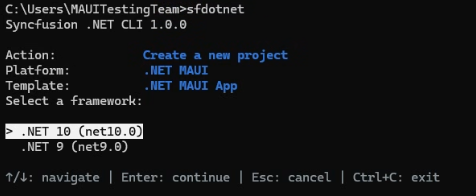
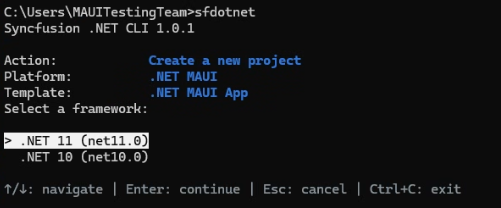
Added CLI license documentation details

diff --git a/maui-toc.html b/maui-toc.html
@@ -112,6 +112,9 @@
 					<li>
 						<a href="/maui/dotnet-cli/manage-packages">Manage Packages</a>
 					</li>
+    				<li>
+						<a href="/maui/dotnet-cli/licensing">Licensing</a>
+					</li>
 					<li>
 						<a href="/maui/dotnet-cli/configure-mcp">MCP Configuration</a>
 					</li>

diff --git a/MAUI/dotnet-cli/licensing.md b/MAUI/dotnet-cli/licensing.md
@@ -1,0 +1,145 @@
+---
+layout: post
+title: License Activation using Syncfusion .NET CLI | Syncfusion®
+description: Learn here about how to activate and view Syncfusion® licenses for .NET MAUI projects using the Syncfusion® .NET CLI (sfdotnet) license commands.
+platform: MAUI
+control: Syncfusion<sup>®</sup> .NET CLI
+documentation: UG
+---
+
+# Activate Syncfusion<sup>®</sup> licenses
+
+The CLI detects the Syncfusion<sup>®</sup> controls used in a project, downloads the matching license keys from your Syncfusion<sup>®</sup> account, and registers the keys in the project's startup code. For example, when a sample is created with the Cartesian Chart control, the CLI registers the license for `Syncfusion.Maui.Charts` in `MauiProgram.cs` so the build runs without a license warning.
+
+N> Open the Command Prompt or Terminal in the target sample's project directory before running the license activation command. The license operation is project-specific, and the command path must point to the intended sample.
+
+## Sign in requirements
+
+License activation requires a Syncfusion<sup>®</sup> account. The CLI uses the account to check your entitlements and download the license keys for the Syncfusion<sup>®</sup> packages detected in the project. You can sign in during activation, or ahead of time with `sfdotnet login`.
+
+## Sign in and sign out
+
+To sign in to your Syncfusion<sup>®</sup> account, run:
+
+{% tabs %}
+{% highlight bash tabtitle="Bash" %}
+sfdotnet login
+{% endhighlight %}
+{% endtabs %}
+
+The CLI opens your default browser on the Syncfusion<sup>®</sup> sign-in page. Complete sign in, and the CLI stores a local session for future license operations. The session is reused by `sfdotnet license activate`, so you sign in only once per machine until you sign out.
+
+To sign out and clear the local sign-in session, run:
+
+{% tabs %}
+{% highlight bash tabtitle="Bash" %}
+sfdotnet logout
+{% endhighlight %}
+{% endtabs %}
+
+After signing out, the next license operation prompts you to sign in again. Signing out does not affect the license keys already registered in your projects.
+
+## Activate a license through the interactive menu
+
+1. Open the Command Prompt or Terminal in the target sample's project directory.
+
+2. Run `sfdotnet` to open the main menu.
+
+3. Under **License management**, select **Activate license**.
+
+    ![Activate license option in the Syncfusion .NET CLI](images/cli-activate-license.png)
+
+4. If you are not signed in, the CLI opens your default browser to the Syncfusion<sup>®</sup> sign-in page. Complete sign in with your Syncfusion<sup>®</sup> account.
+
+    ![Syncfusion sign-in page in the browser](images/cli-license-sign-in.png)
+
+5. After sign in, the CLI checks your entitlements, downloads the matching keys for the Syncfusion<sup>®</sup> controls in the sample, and registers the keys in `MauiProgram.cs`.
+
+    ![License registered successfully in the Syncfusion .NET CLI](images/cli-license-registered.png)
+
+6. Rebuild the application so the newly registered license is applied.
+
+## Activate a license using a direct command
+
+Run the activation command from the sample's project directory:
+
+{% tabs %}
+{% highlight bash tabtitle="Bash" %}
+sfdotnet license activate
+{% endhighlight %}
+{% endtabs %}
+
+Pass `--path` to point the CLI at a specific project directory or `.csproj` file:
+
+{% tabs %}
+{% highlight bash tabtitle="Bash" %}
+sfdotnet license activate --path ./MyApp
+sfdotnet license activate --path ./MyApp/MyApp.csproj
+{% endhighlight %}
+{% endtabs %}
+
+Use `--yes` to accept the trial EULA prompt without asking:
+
+{% tabs %}
+{% highlight bash tabtitle="Bash" %}
+sfdotnet license activate --yes
+{% endhighlight %}
+{% endtabs %}
+
+Use `--file` to activate from an existing key file. With no value, the CLI reads `./syncfusion-license.txt` from the project directory. With an absolute path, the CLI uses the specified file instead:
+
+{% tabs %}
+{% highlight bash tabtitle="Bash" %}
+sfdotnet license activate --file
+sfdotnet license activate --file C:\Users\<username>\keys\syncfusion-license.txt
+{% endhighlight %}
+{% endtabs %}
+
+N> When a license key is supplied through `--file`, the CLI skips sign in and download and registers the keys already in the file. The file path must be absolute.
+
+## View installed licenses
+
+To see the licenses cached for the current project, run:
+
+{% tabs %}
+{% highlight bash tabtitle="Bash" %}
+sfdotnet license view
+{% endhighlight %}
+{% endtabs %}
+
+The command reads the cached metadata, lists each product, the license type, the status, and the expiry date, and warns when a Syncfusion<sup>®</sup> package in the project is not covered.
+
+![View installed licenses in the Syncfusion .NET CLI](images/cli-view-installed-license-menu.png)
+
+The cached output reports the registered email, platform, major version, and one row per product.
+
+![Installed license details in the Syncfusion .NET CLI](images/cli-view-installed-license.png)
+
+## License options
+
+| Option | Description |
+| --- | --- |
+| `-p`, `--path` | The project directory or `.csproj`/`.vbproj` to scan for Syncfusion<sup>®</sup> packages. Defaults to the current directory |
+| `-y`, `--yes` | Accept the trial EULA prompt automatically during activation |
+| `--file` | Activate from an existing key file. With no value, the CLI reads `./syncfusion-license.txt` from the project directory. With an absolute path, the CLI uses the specified file |
+| `--json` | Emit one JSON document instead of table output |
+
+## FAQs
+
+**Where does the CLI register the license for .NET MAUI?**
+
+In `MauiProgram.cs`, immediately before `MauiApp.CreateBuilder()`.
+
+**Can I use my own key file?**
+
+Yes. Run `sfdotnet license activate --file C:\Users\<username>\keys\syncfusion-license.txt` with an absolute path. The CLI reads the keys from the file and registers them in the project's startup code without contacting the license service.
+
+**What happens if I am not signed in during activation?**
+
+The CLI opens your default browser on the Syncfusion<sup>®</sup> sign-in page. After you complete sign in, activation continues. To sign in ahead of time, run `sfdotnet login`.
+
+## See also
+
+* [Create a .NET MAUI project](/maui/dotnet-cli/create-project)
+* [Manage packages in an existing project](/maui/dotnet-cli/manage-packages)
+* [Syncfusion<sup>®</sup> licensing overview](https://help.syncfusion.com/common/essential-studio/licensing/overview)

diff --git a/MAUI/dotnet-cli/overview.md b/MAUI/dotnet-cli/overview.md
@@ -9,7 +9,7 @@ documentation: UG
 
 # Overview of the Syncfusion<sup>®</sup> .NET CLI
 
-The Syncfusion<sup>®</sup> .NET CLI (`sfdotnet`) is a cross-platform command line tool that creates .NET MAUI projects, manages Syncfusion<sup>®</sup> .NET MAUI NuGet packages, and configures AI integrations from a terminal. After you install the CLI, you can run `sfdotnet` with no arguments to open an interactive menu, or run a direct command such as `sfdotnet new maui` for scripted, prompt-free creation.
+The Syncfusion<sup>®</sup> .NET CLI (`sfdotnet`) is a cross-platform command line tool that creates .NET MAUI projects, manages Syncfusion<sup>®</sup> .NET MAUI NuGet packages, registers licenses, and configures AI integrations from a terminal. After you install the CLI, you can run `sfdotnet` with no arguments to open an interactive menu, or run a direct command such as `sfdotnet new maui` for scripted, prompt-free creation.
 
 N> The Syncfusion<sup>®</sup> .NET CLI installs the `sfdotnet` command.
 
@@ -17,6 +17,7 @@ You can use the CLI to perform the following actions:
 
 * Create a blank .NET MAUI app, or an app containing generated Syncfusion<sup>®</sup> control samples. For details, refer to [Create a .NET MAUI project](/maui/dotnet-cli/create-project).
 * Add or update Syncfusion<sup>®</sup> .NET MAUI NuGet package references in an existing project. For details, refer to [Manage packages](/maui/dotnet-cli/manage-packages).
+* Activate Syncfusion<sup>®</sup> licenses for the controls used in a sample, and view installed licenses. For details, refer to [License activation](/maui/dotnet-cli/licensing).
 * Configure an official Syncfusion<sup>®</sup> Model Context Protocol (MCP) server for AI coding clients. For details, refer to [MCP configuration](/maui/dotnet-cli/configure-mcp).
 * Install official Syncfusion<sup>®</sup> component skills for AI agents. For details, refer to [AI skills installation](/maui/dotnet-cli/install-skills).
 
@@ -26,8 +27,9 @@ This documentation covers the .NET MAUI platform.
 
 The following software is required before you install and use the CLI:
 
-* [.NET SDK](https://dotnet.microsoft.com/en-us/download/dotnet/10.0) with the **.NET Multi-platform App UI development** workload. The workload also installs the .NET MAUI project templates, which the CLI uses to create projects.
+* [.NET SDK](https://dotnet.microsoft.com/en-us/download/dotnet/11.0) with the **.NET Multi-platform App UI development** workload. The workload also installs the .NET MAUI project templates, which the CLI uses to create projects.
 * An internet connection so package operations can reach [nuget.org](https://www.nuget.org).
+* A Syncfusion<sup>®</sup> account to activate licenses. Sign in is performed through the browser during license activation.
 
 N> Syncfusion<sup>®</sup> packages resolve from the official nuget.org feed, `https://api.nuget.org/v3/index.json`. The CLI accepts only this source through `--source`.
 
@@ -108,6 +110,10 @@ Complete direct commands remain usable without opening the menu. `--no-interacti
 | `sfdotnet list maui installed` | List installed packages in an existing project | [Manage packages](/maui/dotnet-cli/manage-packages) |
 | `sfdotnet search maui <text>` | Search packages | [Manage packages](/maui/dotnet-cli/manage-packages) |
 | `sfdotnet mcp init maui` | Configure a project-local Syncfusion<sup>®</sup> MCP client | [MCP configuration](/maui/dotnet-cli/configure-mcp) |
+| `sfdotnet login` | Sign in to Syncfusion through the browser | [License activation](/maui/dotnet-cli/licensing) |
+| `sfdotnet logout` | Sign out and clear the local session | [License activation](/maui/dotnet-cli/licensing) |
+| `sfdotnet license activate` | Download the license for the project's packages and register it in the project's startup code | [License activation](/maui/dotnet-cli/licensing) |
+| `sfdotnet license view` | Show the licenses cached for the project (no network call) | [License activation](/maui/dotnet-cli/licensing) |
 | `sfdotnet skills install maui` | Install Syncfusion<sup>®</sup> component skills for AI agents | [AI skills installation](/maui/dotnet-cli/install-skills) |
 | `sfdotnet info` | Show CLI information | |
 | `sfdotnet help maui` | Show the .NET MAUI command map | |

diff --git a/MAUI/dotnet-cli/create-project.md b/MAUI/dotnet-cli/create-project.md
@@ -22,8 +22,8 @@ Run `sfdotnet new`, or select **Create a new project** from the main menu. The .
 2. **Project template:** The **.NET MAUI App** template is the only enabled project type and is recorded automatically.
 3. **Framework:** Select the .NET version.
 
-    * .NET 10 (`net10.0`), the default
-    * .NET 9 (`net9.0`)
+    * .NET 11 (`net11.0`), the default
+    * .NET 10 (`net10.0`)
 
 4. **Location and name:** Enter the parent directory and the project name. The default locations are `%USERPROFILE%\source\repos` on Windows and `~/Projects` on Linux and macOS. The suggested name is `SyncfusionMauiApp`, and the first available numeric suffix is used when the destination name collides.
 
@@ -82,15 +82,15 @@ The framework step selects the base .NET version. It does not select Android, iO
 
 {% tabs %}
 {% highlight bash tabtitle="Bash" %}
-sfdotnet new maui -n MyApp --target-framework net9.0
+sfdotnet new maui -n MyApp --target-framework net10.0
 {% endhighlight %}
 {% endtabs %}
 
-A .NET MAUI project declares multiple platform targets, such as `net10.0-android` and `net10.0-windows`. By default, builds run `dotnet build` for all configured targets. Use `--build-framework` to build one enabled target:
+A .NET MAUI project declares multiple platform targets, such as `net11.0-android` and `net11.0-windows`. By default, builds run `dotnet build` for all configured targets. Use `--build-framework` to build one enabled target:
 
 {% tabs %}
 {% highlight bash tabtitle="Bash" %}
-sfdotnet new maui -n MyApp --build-framework net10.0-android --post-action build
+sfdotnet new maui -n MyApp --build-framework net11.0-android --post-action build
 {% endhighlight %}
 {% endtabs %}
 
@@ -98,11 +98,11 @@ sfdotnet new maui -n MyApp --build-framework net10.0-android --post-action build
 
 ## Run the created project
 
-A generated .NET MAUI project declares multiple platform targets, such as `net10.0-android` and `net10.0-windows`. Run the project with the target framework for your platform:
+A generated .NET MAUI project declares multiple platform targets, such as `net11.0-android` and `net11.0-windows`. Run the project with the target framework for your platform:
 
 {% tabs %}
 {% highlight bash tabtitle="Bash" %}
-dotnet run --project ./MyApp/MyApp.csproj -f net10.0-windows
+dotnet run --project ./MyApp/MyApp.csproj -f net11.0-windows
 {% endhighlight %}
 {% endtabs %}
 
@@ -114,11 +114,11 @@ Native platform requirements still apply. Windows apps run on Windows, Mac Catal
 | --- | --- |
 | `-n`, `--name` | Project name. Required when prompting is unavailable |
 | `-p`, `--path` | Parent directory. Defaults to the current directory |
-| `-t`, `--target-framework` | The .NET target framework, such as `net10.0` |
+| `-t`, `--target-framework` | The .NET target framework, such as `net11.0` |
 | `--control` | One or more control IDs, or `empty`. Omit to create an empty project |
 | `--project-type` | The .NET MAUI project type: `app` |
 | `--post-action` | Post-create action: `generate` or `build`. Defaults to `build` for direct commands |
-| `--build-framework` | Build only this configured project target, such as `net10.0-android`. Defaults to all configured targets |
+| `--build-framework` | Build only this configured project target, such as `net11.0-android`. Defaults to all configured targets |
 | `--dry-run` | Preview the action without making changes |
 | `--force` | Allow supported overwrites. Edited control samples remain protected |
 | `--no-restore` | Skip `dotnet restore` after the action |
@@ -136,9 +136,10 @@ In a CLI-generated project, yes. In an ordinary project, the command adds the Nu
 
 **Which .NET versions are supported?**
 
-.NET 10 (`net10.0`) and .NET 9 (`net9.0`). Installed template and workload compatibility is checked separately during creation.
+.NET 11 (`net11.0`) and .NET 10 (`net10.0`). Installed template and workload compatibility is checked separately during creation.
 
 ## See also
 
 * [Manage packages in an existing project](/maui/dotnet-cli/manage-packages)
+* [License activation](/maui/dotnet-cli/licensing)
 * [Installing .NET MAUI NuGet packages](https://help.syncfusion.com/maui/installation/install-nuget-packages)

diff --git a/MAUI/dotnet-cli/configure-mcp.md b/MAUI/dotnet-cli/configure-mcp.md
@@ -91,8 +91,8 @@ The MCP server runs as a .NET tool. The `--runner` option selects how the client
 
 | Runner | Behavior |
 | --- | --- |
-| `auto` (default) | Checks the .NET SDK selected in the workspace (including `global.json`). SDK 10 or later uses `dnx`; SDK 8/9 uses the local tool mode. |
-| `dnx` | Starts the server with `dnx Syncfusion.Maui.MCP --yes`. The package is downloaded when the client first starts the server. Requires .NET SDK 10 or later. |
+| `auto` (default) | Checks the .NET SDK selected in the workspace (including `global.json`). SDK 11 or later uses `dnx`; SDK 10 uses the local tool mode. |
+| `dnx` | Starts the server with `dnx Syncfusion.Maui.MCP --yes`. The package is downloaded when the client first starts the server. Requires .NET SDK 11 or later. |
 | `local` | Creates a local tool manifest at `.config/dotnet-tools.json` if one does not exist, installs the `Syncfusion.Maui.MCP` tool into it, and configures `dotnet tool run syncfusion-maui-mcp`. |
 
 N> When the local tool manifest already lists the MCP tool, the CLI restores the manifest's tools instead of reinstalling. This may also download other tools listed in that manifest. Run the client from the configured workspace so local-tool resolution uses that manifest.
@@ -142,4 +142,5 @@ No. Setup writes the client configuration and installs the required tool, but do
 ## See also
 
 * [AI skills installation](/maui/dotnet-cli/install-skills)
+* [License activation](/maui/dotnet-cli/licensing)
 * [Syncfusion<sup>®</sup> .NET MAUI AI coding assistant](https://help.syncfusion.com/maui/ai-coding-assistant/overview)

diff --git a/MAUI/dotnet-cli/manage-packages.md b/MAUI/dotnet-cli/manage-packages.md
@@ -103,4 +103,5 @@ Existing-project commands accept `-p/--path` with a project file, a project dire
 ## See also
 
 * [Create a .NET MAUI project](/maui/dotnet-cli/create-project)
+* [License activation](/maui/dotnet-cli/licensing)
 * [Installing .NET MAUI NuGet packages](https://help.syncfusion.com/maui/installation/install-nuget-packages)
